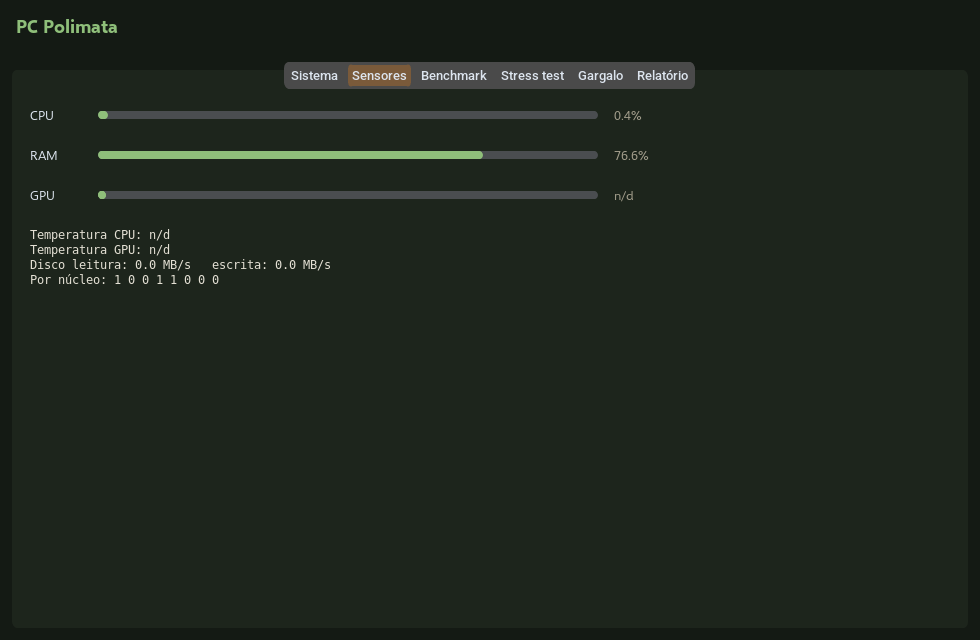
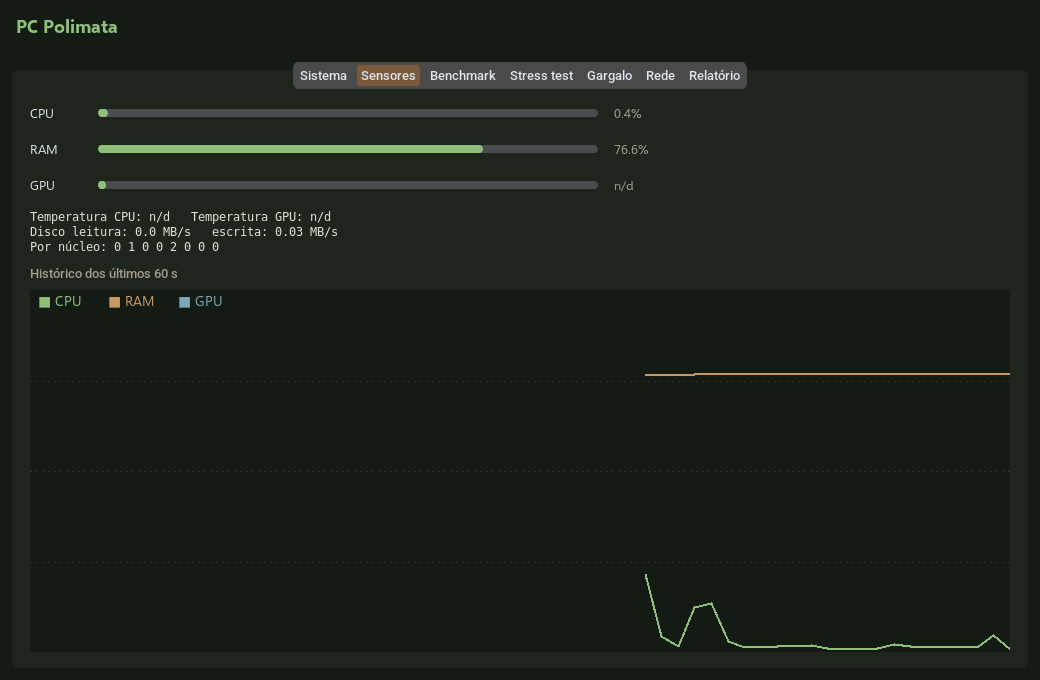
docs: add CHANGELOG and refresh screenshots

diff --git a/scripts/screenshot.py b/scripts/screenshot.py
@@ -1,22 +1,51 @@
-"""Gera screenshots da GUI (ex.: xvfb-run python scripts/screenshot.py)."""
+"""Gera screenshots da GUI em docs/ (Linux: `xvfb-run -s "-screen 0 1040x680x24" python scripts/screenshot.py`).
 
-from PIL import ImageGrab
+Uso: python scripts/screenshot.py [Aba=segundos ...]   ex.: Sistema=2 Sensores=20
+"""
 
-from pc_polimata.gui.app import PolimataApp
+import os
+import sys
+import tempfile
+from pathlib import Path
 
-app = PolimataApp()
-app.geometry("980x640+0+0")
+sys.path.insert(0, str(Path(__file__).resolve().parents[1]))
+os.environ.setdefault("XDG_CONFIG_HOME", tempfile.mkdtemp())  # não usa as configs do usuário
+
+from PIL import ImageGrab  # noqa: E402
+
+from pc_polimata.gui.app import PolimataApp  # noqa: E402
+from pc_polimata.i18n import tr  # noqa: E402
+
+DEFAULT = ["Sistema=2", "Sensores=20", "Rede=2"]
+W, H = 1040, 680
 
 
-def grab(name, tab, nxt):
-    app.tabs.set(tab)
+def main(specs: list[str]) -> None:
+    app = PolimataApp()
+    app.geometry(f"{W}x{H}+0+0")
+    queue = [(name, float(secs)) for name, secs in (s.split("=") for s in specs)]
 
-    def snap():
-        ImageGrab.grab(bbox=(0, 0, 980, 640)).save(f"docs/{name}.png")
-        nxt()
+    def step() -> None:
+        if not queue:
+            app.destroy()
+            return
+        name, secs = queue.pop(0)
+        app.tabs.set(tr(name))
+        prepare = getattr(app.tab_objects[name], "screenshot_prepare", None)
+        if prepare:
+            prepare()
 
-    app.after(2500, snap)
+        def snap() -> None:
+            out = Path("docs") / f"screenshot_{name.lower().replace(' ', '_')}.png"
+            ImageGrab.grab(bbox=(0, 0, W, H)).save(out)
+            print(out)
+            step()
+
+        app.after(int(secs * 1000), snap)
+
+    app.after(500, step)
+    app.mainloop()
 
 
-grab("screenshot_sistema", "Sistema", lambda: grab("screenshot_sensores", "Sensores", app.destroy))
-app.mainloop()
+if __name__ == "__main__":
+    main(sys.argv[1:] or DEFAULT)

diff --git a/pc_polimata/gui/tabs/network.py b/pc_polimata/gui/tabs/network.py
@@ -28,6 +28,9 @@ class NetworkTab:
         self.interfaces = "\n".join(lines)
         set_text(self.box, self.interfaces)
 
+    def screenshot_prepare(self) -> None:
+        self.run_latency()
+
     def _show(self) -> None:
         set_text(self.box, "\n".join([*self.results, "", self.interfaces]))
 

diff --git a/CHANGELOG.md b/CHANGELOG.md
@@ -1,0 +1,21 @@
+# Changelog
+
+Formato baseado em [Keep a Changelog](https://keepachangelog.com/pt-BR/1.1.0/);
+versionamento [SemVer](https://semver.org/lang/pt-BR/).
+
+## [0.1.0] - 2026-10-21
+
+Primeira versão pública.
+
+### Adicionado
+- Abas **Sistema**, **Sensores**, **Benchmark**, **Stress test**, **Gargalo**, **Rede** e **Relatório** (GUI customtkinter, tema escuro verde/marrom).
+- Benchmark de CPU single/multi-core (multiprocessing) e de disco (leitura/escrita MB/s).
+- Stress test com duração, limite de temperatura e parada segura.
+- Análise heurística de gargalo CPU x GPU (30/45/60 s).
+- Gráficos ao vivo (Canvas do tkinter) de CPU, RAM e GPU nos últimos 60 s.
+- Aba **Rede**: latência por conexão TCP a 1.1.1.1 e 8.8.8.8 (sem admin), interfaces locais e teste de download com timeout.
+- Temperaturas no **Windows** via LibreHardwareMonitor/OpenHardwareMonitor (WMI), com dica na GUI quando indisponível.
+- GPUs **AMD** no Linux (sysfs amdgpu e `rocm-smi`) e detecção de GPUs Intel/AMD no Windows (`Win32_VideoController`).
+- Configurações persistidas (idioma, acento, unidade de temperatura, intervalo) e i18n PT/EN no núcleo.
+- CLI headless `python -m pc_polimata --report [--benchmark] [-o arquivo.json|.html]`.
+- Exportação JSON/HTML, testes pytest, ruff, licença MIT.
